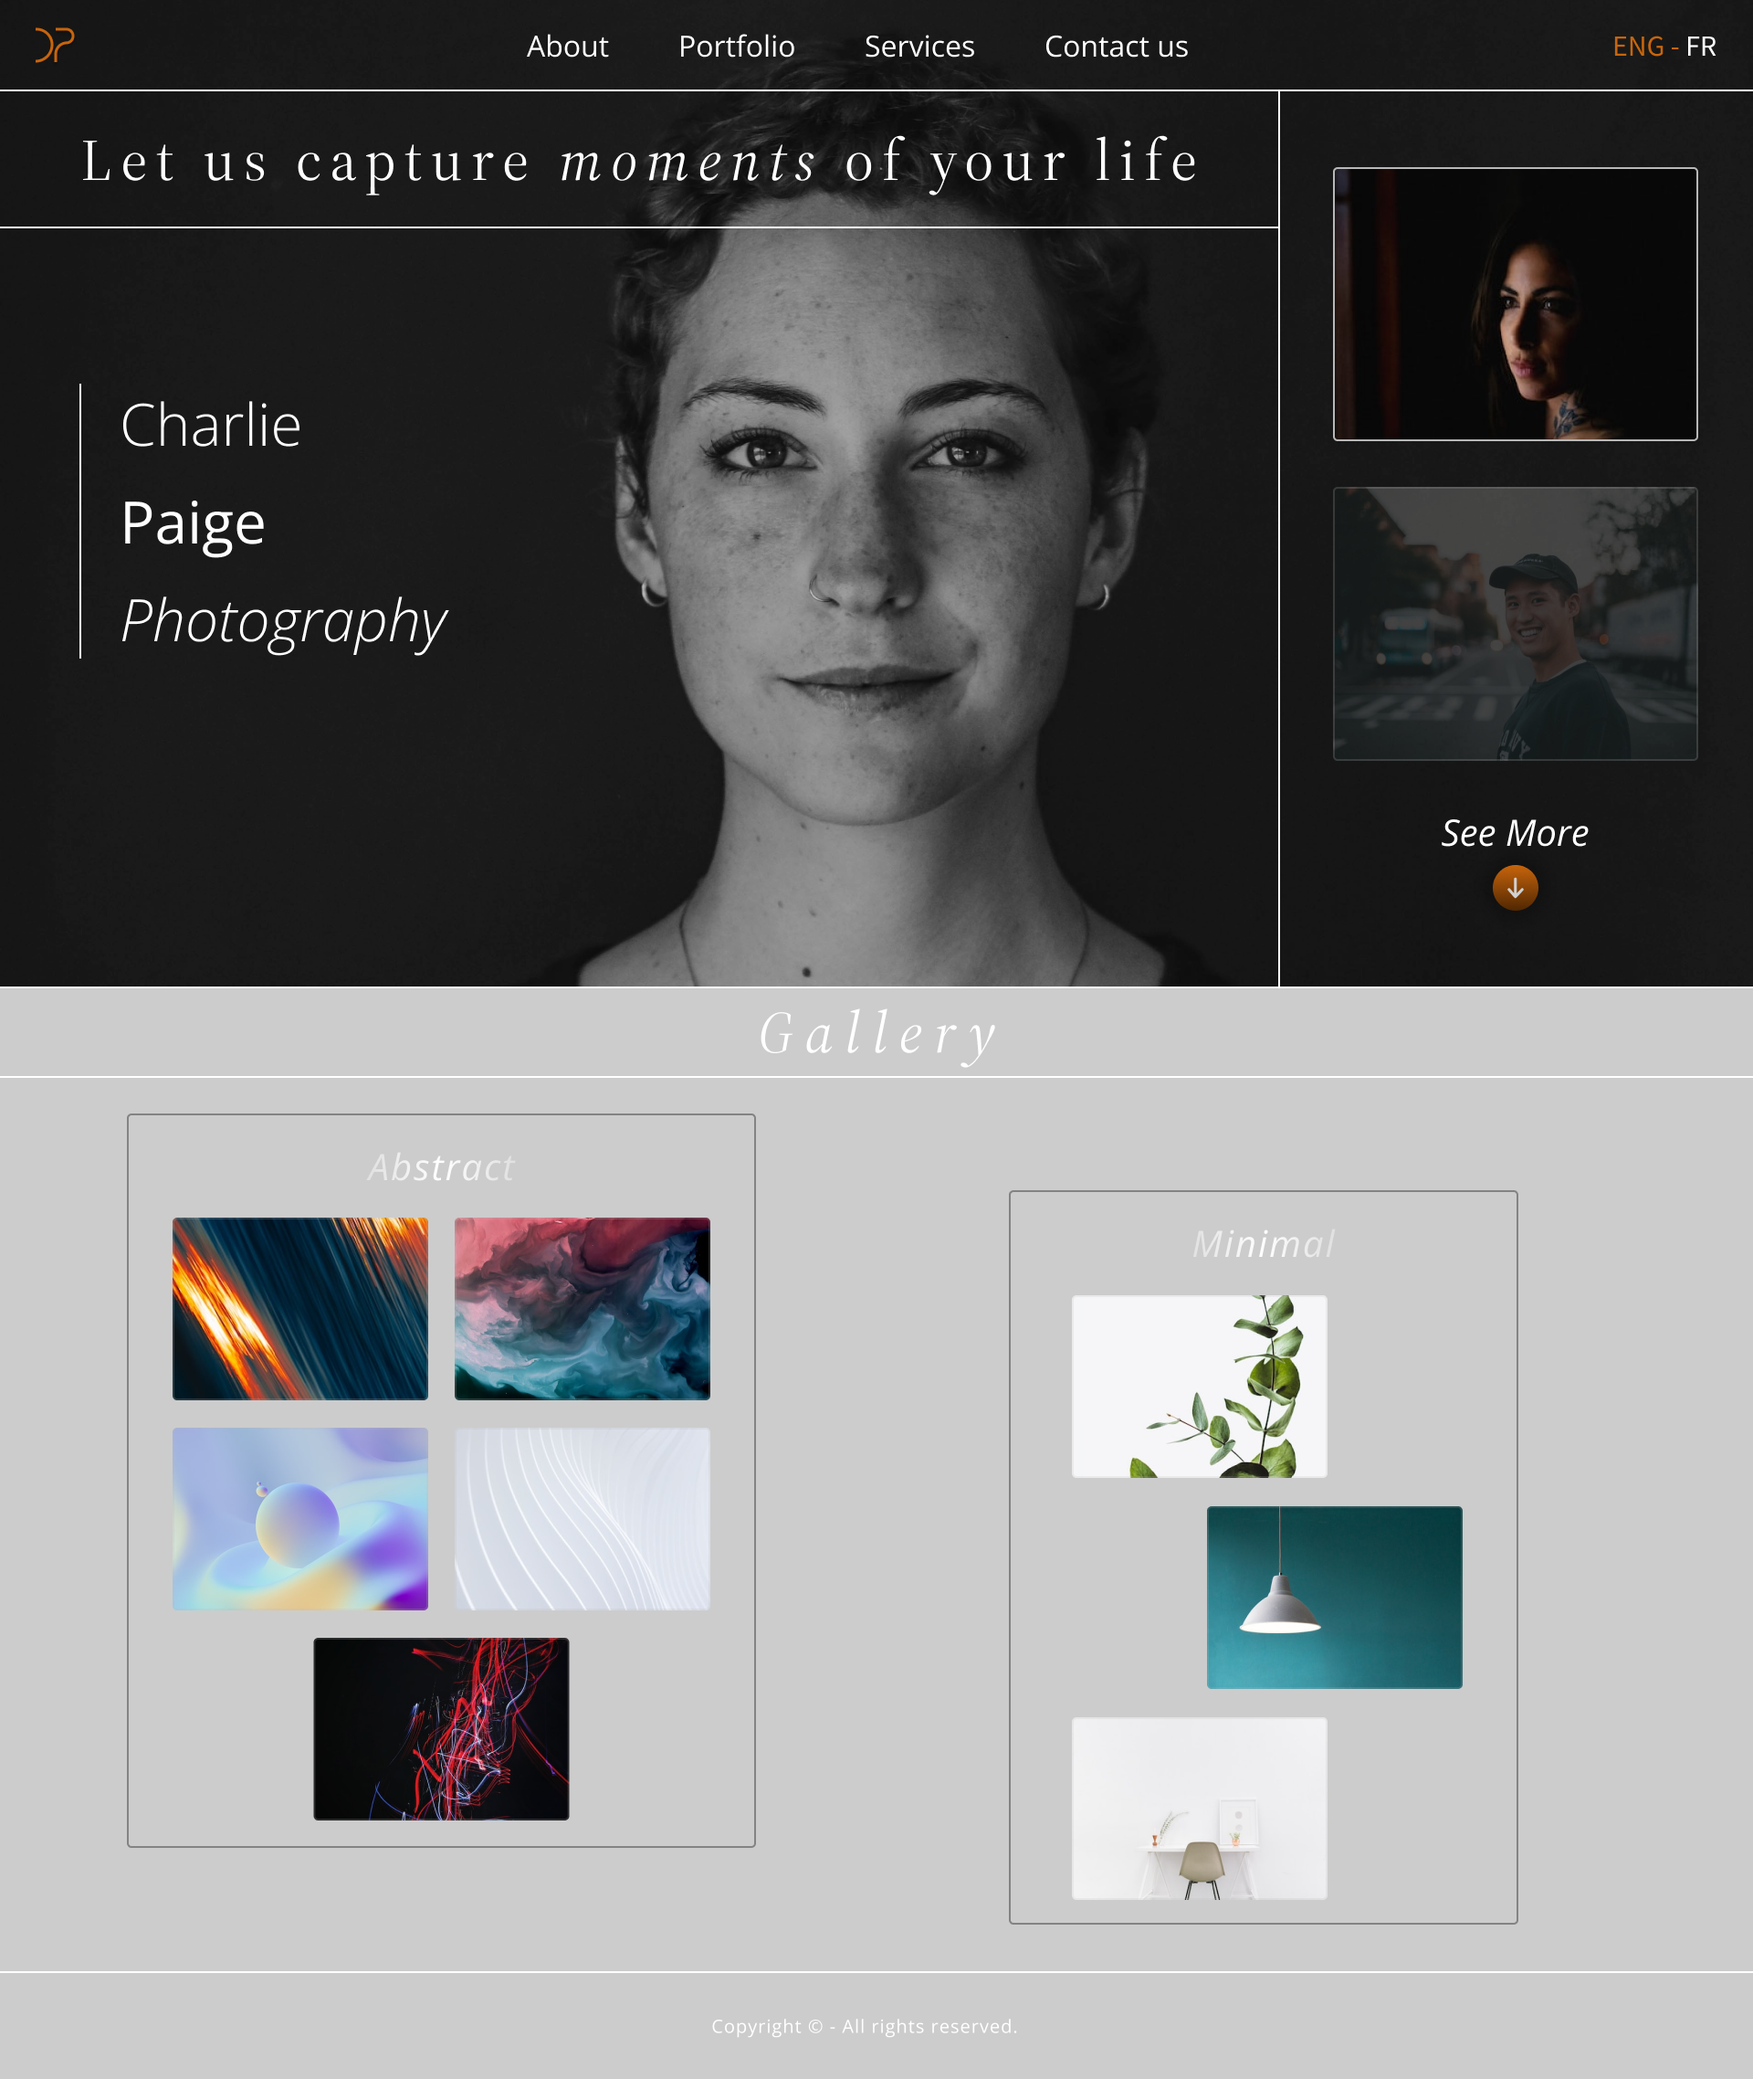
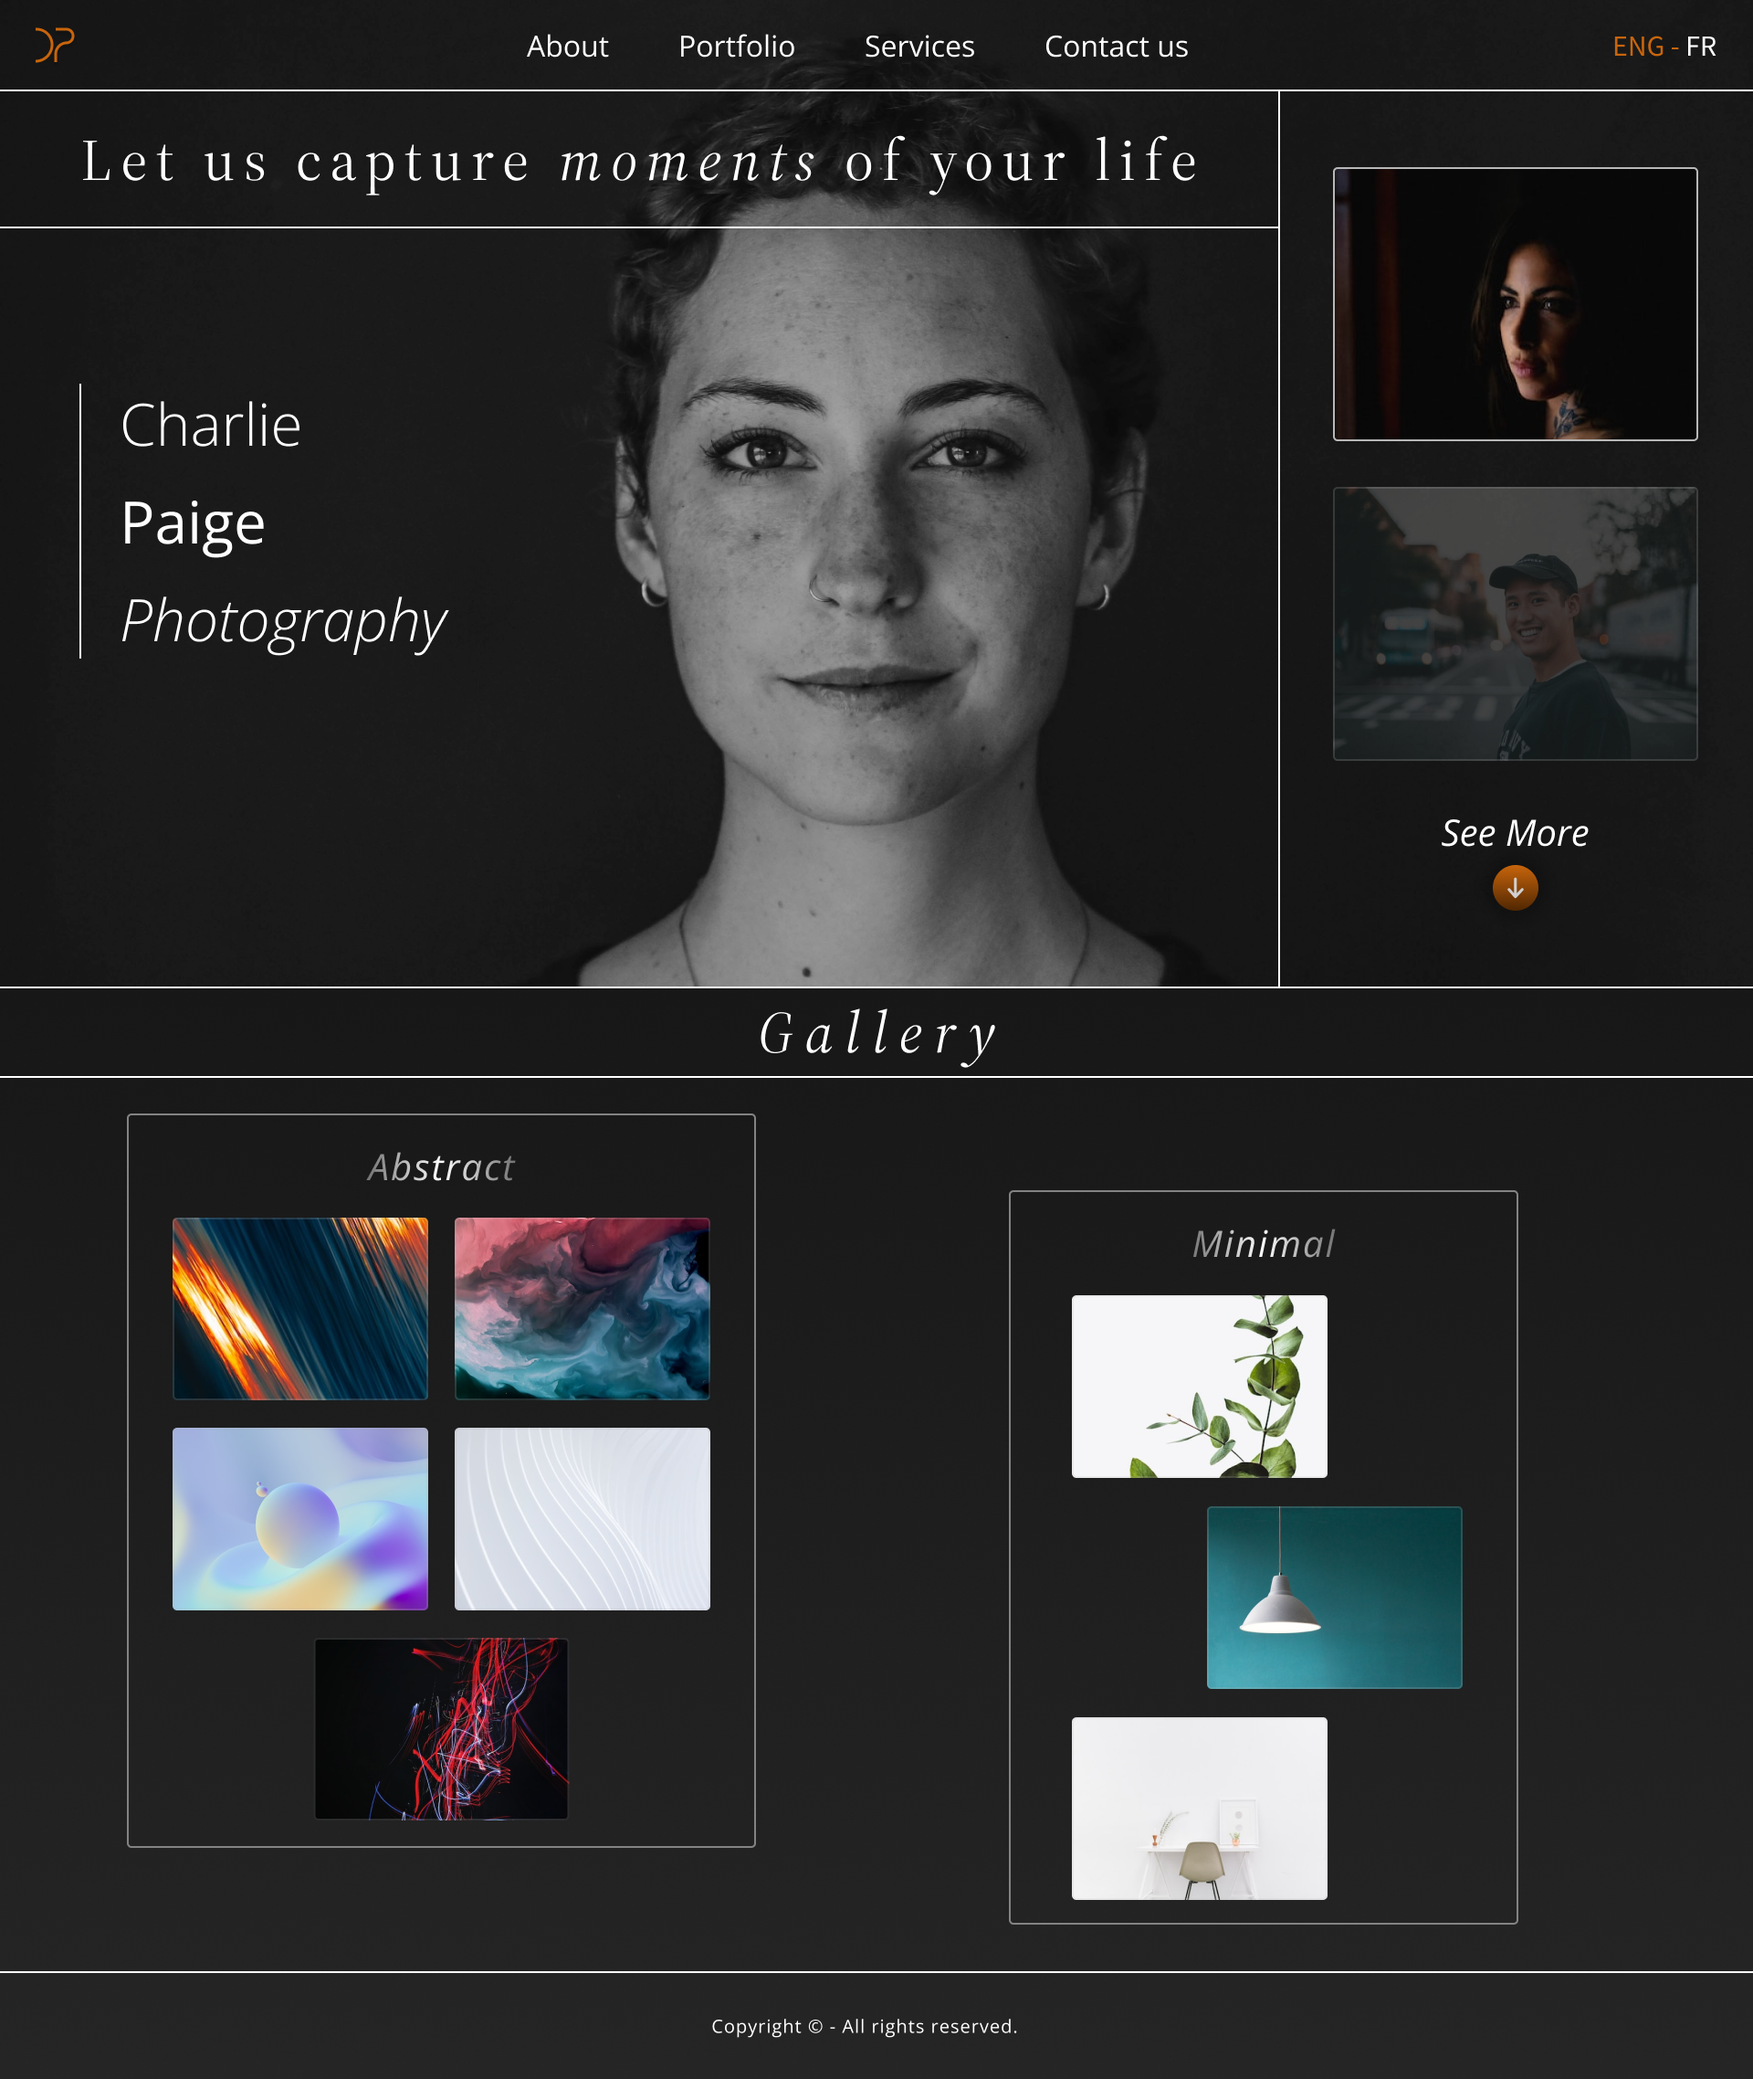
Modification du background du bonus

diff --git a/README.md b/README.md
@@ -18,11 +18,11 @@ Font :
 
 Couleurs : 
 - Orange : #C8650C
-- Background Bonus : rgba(0, 0, 0, 0.2)
 
 Linear-gradients :
 
 - "See More" button : linear-gradient(180deg, #C8650C 0%, #512702 100%);
+- Background Bonus : linear-gradient(180deg, #171717 0%, #252525 100%)
 - "Abstract" & "Minimal" title : linear-gradient(90deg, rgba(255, 255, 255, 0.4) -0.31%, #FFFFFF 49.69%, rgba(255, 255, 255, 0.4) 99.69%);
 
 ---
